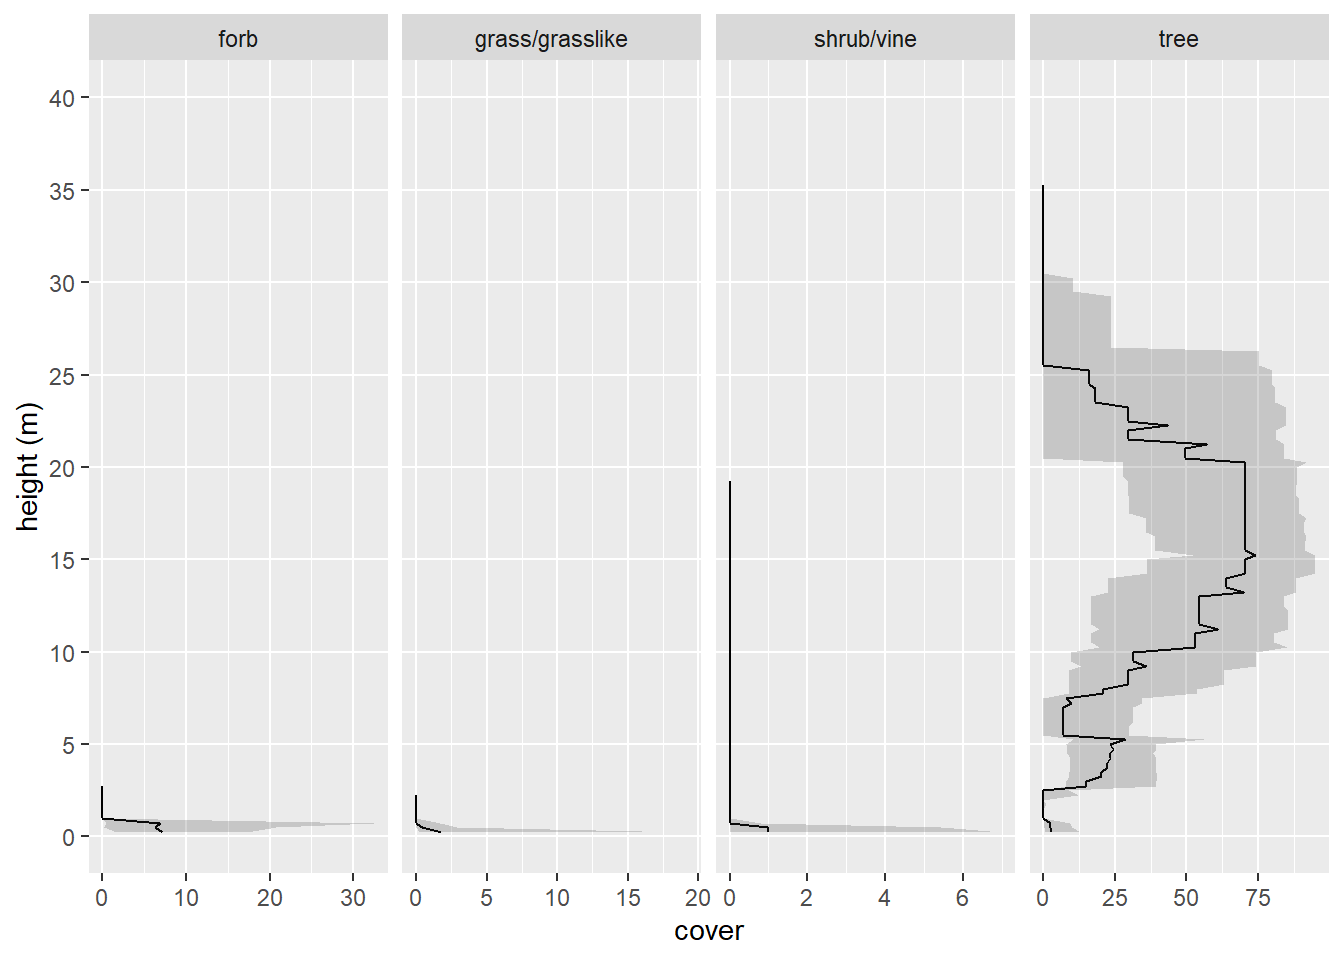
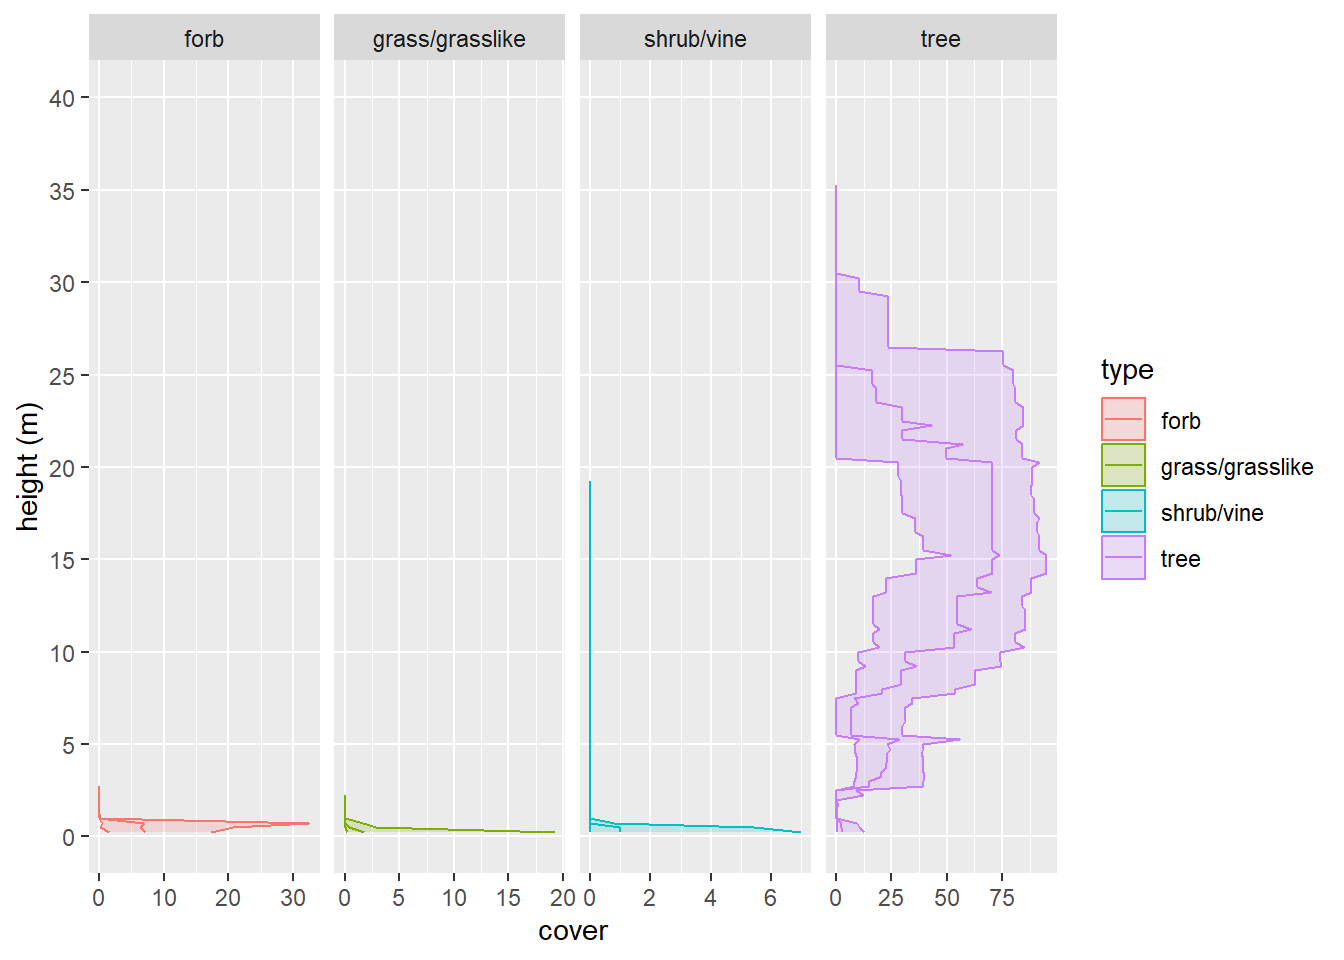
add color to graph

diff --git a/docs/structure.html b/docs/structure.html
@@ -483,11 +483,11 @@ div.csl-indent {
 </tr>
 </tbody>
 </table>
-<div class="sourceCode" id="cb2"><pre class="sourceCode r"><code class="sourceCode r"><span id="cb2-1"><a href="structure.html#cb2-1" aria-hidden="true" tabindex="-1"></a><span class="fu">ggplot</span>(veg.str.pct, <span class="fu">aes</span>(<span class="at">x =</span> top, <span class="at">y =</span> X50)) <span class="sc">+</span></span>
+<div class="sourceCode" id="cb2"><pre class="sourceCode r"><code class="sourceCode r"><span id="cb2-1"><a href="structure.html#cb2-1" aria-hidden="true" tabindex="-1"></a><span class="fu">ggplot</span>(veg.str.pct, <span class="fu">aes</span>(<span class="at">x =</span> top, <span class="at">y =</span> X50, <span class="at">col=</span>type)) <span class="sc">+</span></span>
 <span id="cb2-2"><a href="structure.html#cb2-2" aria-hidden="true" tabindex="-1"></a>  <span class="co"># plot median</span></span>
 <span id="cb2-3"><a href="structure.html#cb2-3" aria-hidden="true" tabindex="-1"></a>  <span class="fu">geom_line</span>() <span class="sc">+</span></span>
 <span id="cb2-4"><a href="structure.html#cb2-4" aria-hidden="true" tabindex="-1"></a>  <span class="co"># plot quantiles</span></span>
-<span id="cb2-5"><a href="structure.html#cb2-5" aria-hidden="true" tabindex="-1"></a>  <span class="fu">geom_ribbon</span>(<span class="fu">aes</span>(<span class="at">ymin =</span> X25, <span class="at">ymax =</span> X75, <span class="at">x =</span> top), <span class="at">alpha =</span> <span class="fl">0.2</span>) <span class="sc">+</span></span>
+<span id="cb2-5"><a href="structure.html#cb2-5" aria-hidden="true" tabindex="-1"></a>  <span class="fu">geom_ribbon</span>(<span class="fu">aes</span>(<span class="at">ymin =</span> X25, <span class="at">ymax =</span> X75, <span class="at">x =</span> top, <span class="at">fill=</span>type), <span class="at">alpha =</span> <span class="fl">0.2</span>) <span class="sc">+</span></span>
 <span id="cb2-6"><a href="structure.html#cb2-6" aria-hidden="true" tabindex="-1"></a>  <span class="fu">coord_flip</span>() <span class="sc">+</span></span>
 <span id="cb2-7"><a href="structure.html#cb2-7" aria-hidden="true" tabindex="-1"></a>  <span class="fu">scale_x_continuous</span>(<span class="at">name=</span><span class="st">&#39;height (m)&#39;</span>, <span class="at">breaks=</span><span class="fu">c</span>(<span class="dv">0</span><span class="sc">:</span><span class="dv">100</span>)<span class="sc">*</span><span class="dv">5</span>,  <span class="at">minor_breaks =</span> <span class="cn">NULL</span>, <span class="at">limits =</span> <span class="fu">c</span>(<span class="dv">0</span>,<span class="dv">40</span>))<span class="sc">+</span></span>
 <span id="cb2-8"><a href="structure.html#cb2-8" aria-hidden="true" tabindex="-1"></a>  <span class="fu">scale_y_continuous</span>(<span class="at">name=</span><span class="st">&#39;cover&#39;</span>)<span class="sc">+</span></span>
